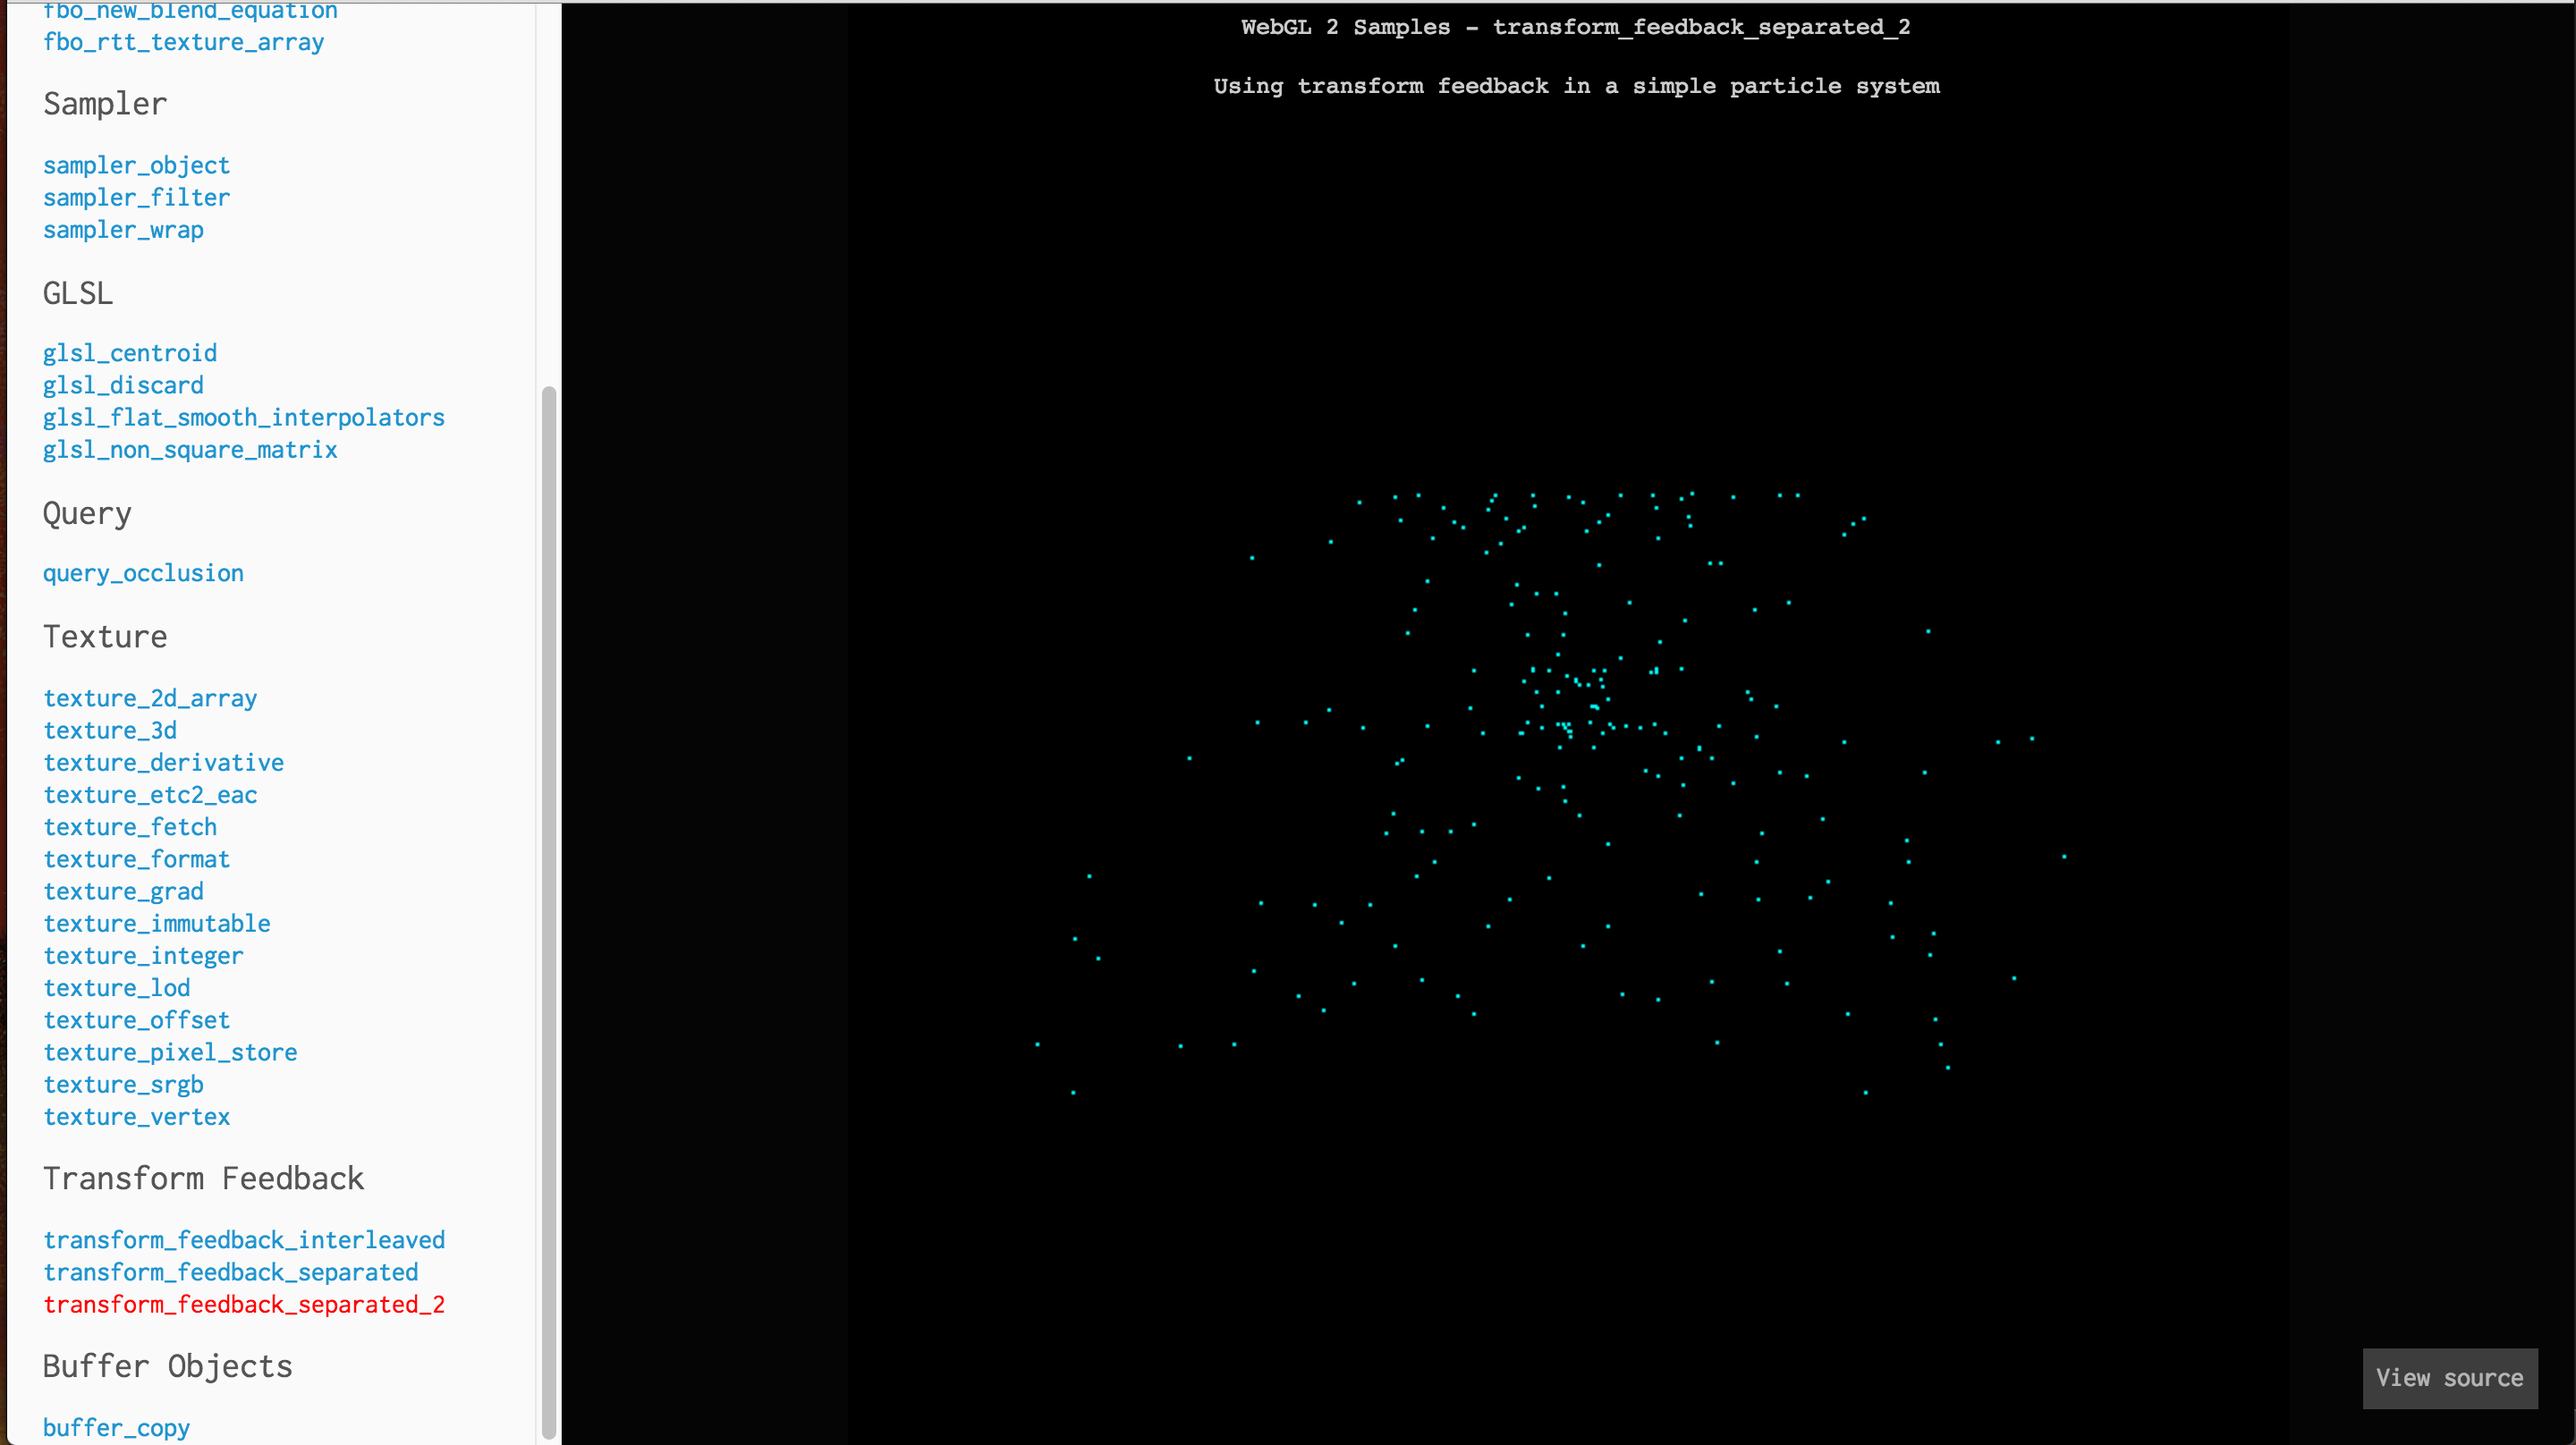
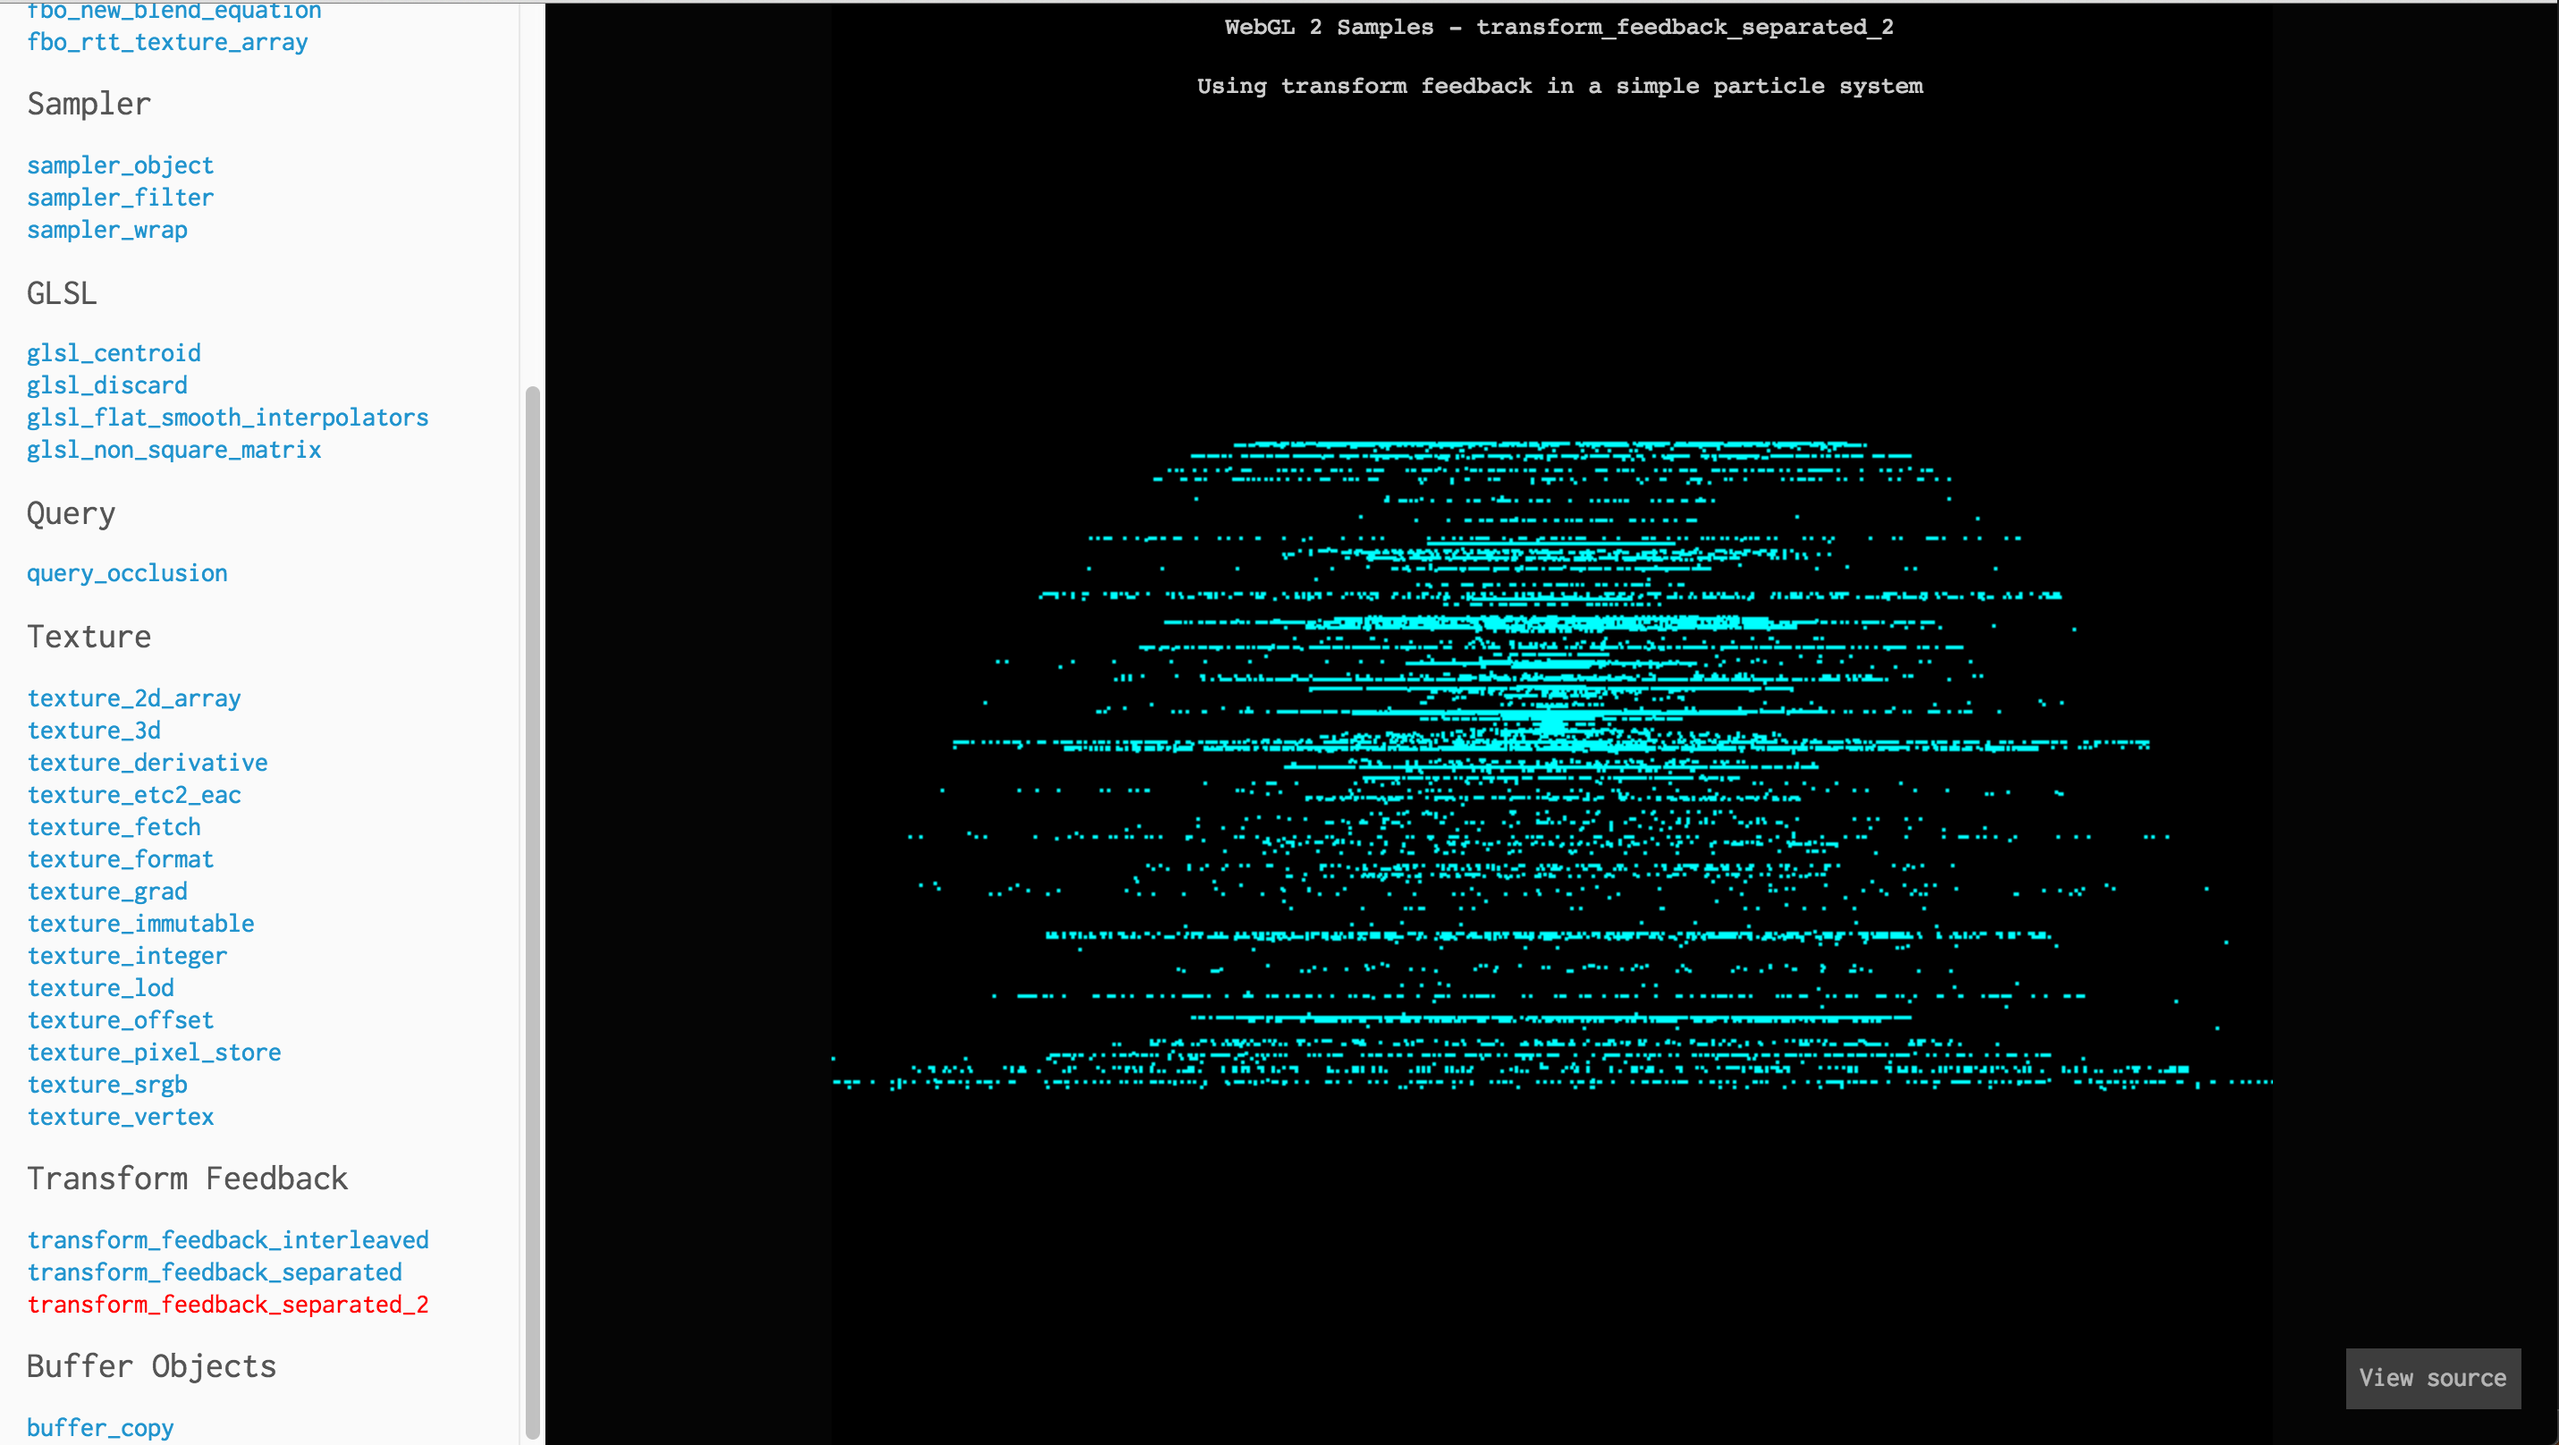
Added links to live samples in screenshots and also updated transformfeedback_2 screenshot

diff --git a/samples/transform_feedback_separated_2.html b/samples/transform_feedback_separated_2.html
@@ -149,7 +149,7 @@
 
         // -- Declare variables for the particle system
 
-        var NUM_PARTICLES = 200;
+        var NUM_PARTICLES = 1000;
         var ACCELERATION = -1.0;
 
         var appStartTime = Date.now();

diff --git a/README.md b/README.md
@@ -12,13 +12,13 @@ Inspired by and ported from Christophe Riccio's ([@Groovounet](https://github.co
 
 ## Screenshots
 
-| Texture LOD | Flat/smooth interpolation |
+| [Texture LOD](http://webglsamples.org/WebGL2Samples/#texture_lod) | [Flat/smooth interpolation](http://webglsamples.org/WebGL2Samples/#glsl_flat_smooth_interpolators) |
 | --- | ----|
-|![Screenshot texture LOD](assets/img/screenshot_texture_lod.png) | ![Screenshot flat smooth](assets/img/screenshot_flat_smooth.png)|
+|[![Screenshot texture LOD](assets/img/screenshot_texture_lod.png)](http://webglsamples.org/WebGL2Samples/#texture_lod) | [![Screenshot flat smooth](assets/img/screenshot_flat_smooth.png)](http://webglsamples.org/WebGL2Samples/#glsl_flat_smooth_interpolators)|
 
-| Sampler object | Transform feedback |
+| [Sampler object wrap](http://webglsamples.org/WebGL2Samples/#sampler_wrap) | [Transform feedback](http://webglsamples.org/WebGL2Samples/#transform_feedback_separated_2) |
 | --- | ----|
-|![Screenshot sampler object](assets/img/screenshot_sampler_object.png) | ![Screenshot transform feedback](assets/img/screenshot_transform_feedback.png)|
+|[![Screenshot sampler object wrap](assets/img/screenshot_sampler_object.png)](http://webglsamples.org/WebGL2Samples/#sampler_wrap) | [![Screenshot transform feedback](assets/img/screenshot_transform_feedback.png)](http://webglsamples.org/WebGL2Samples/#transform_feedback_separated_2)|
 
 ## Samples
 
